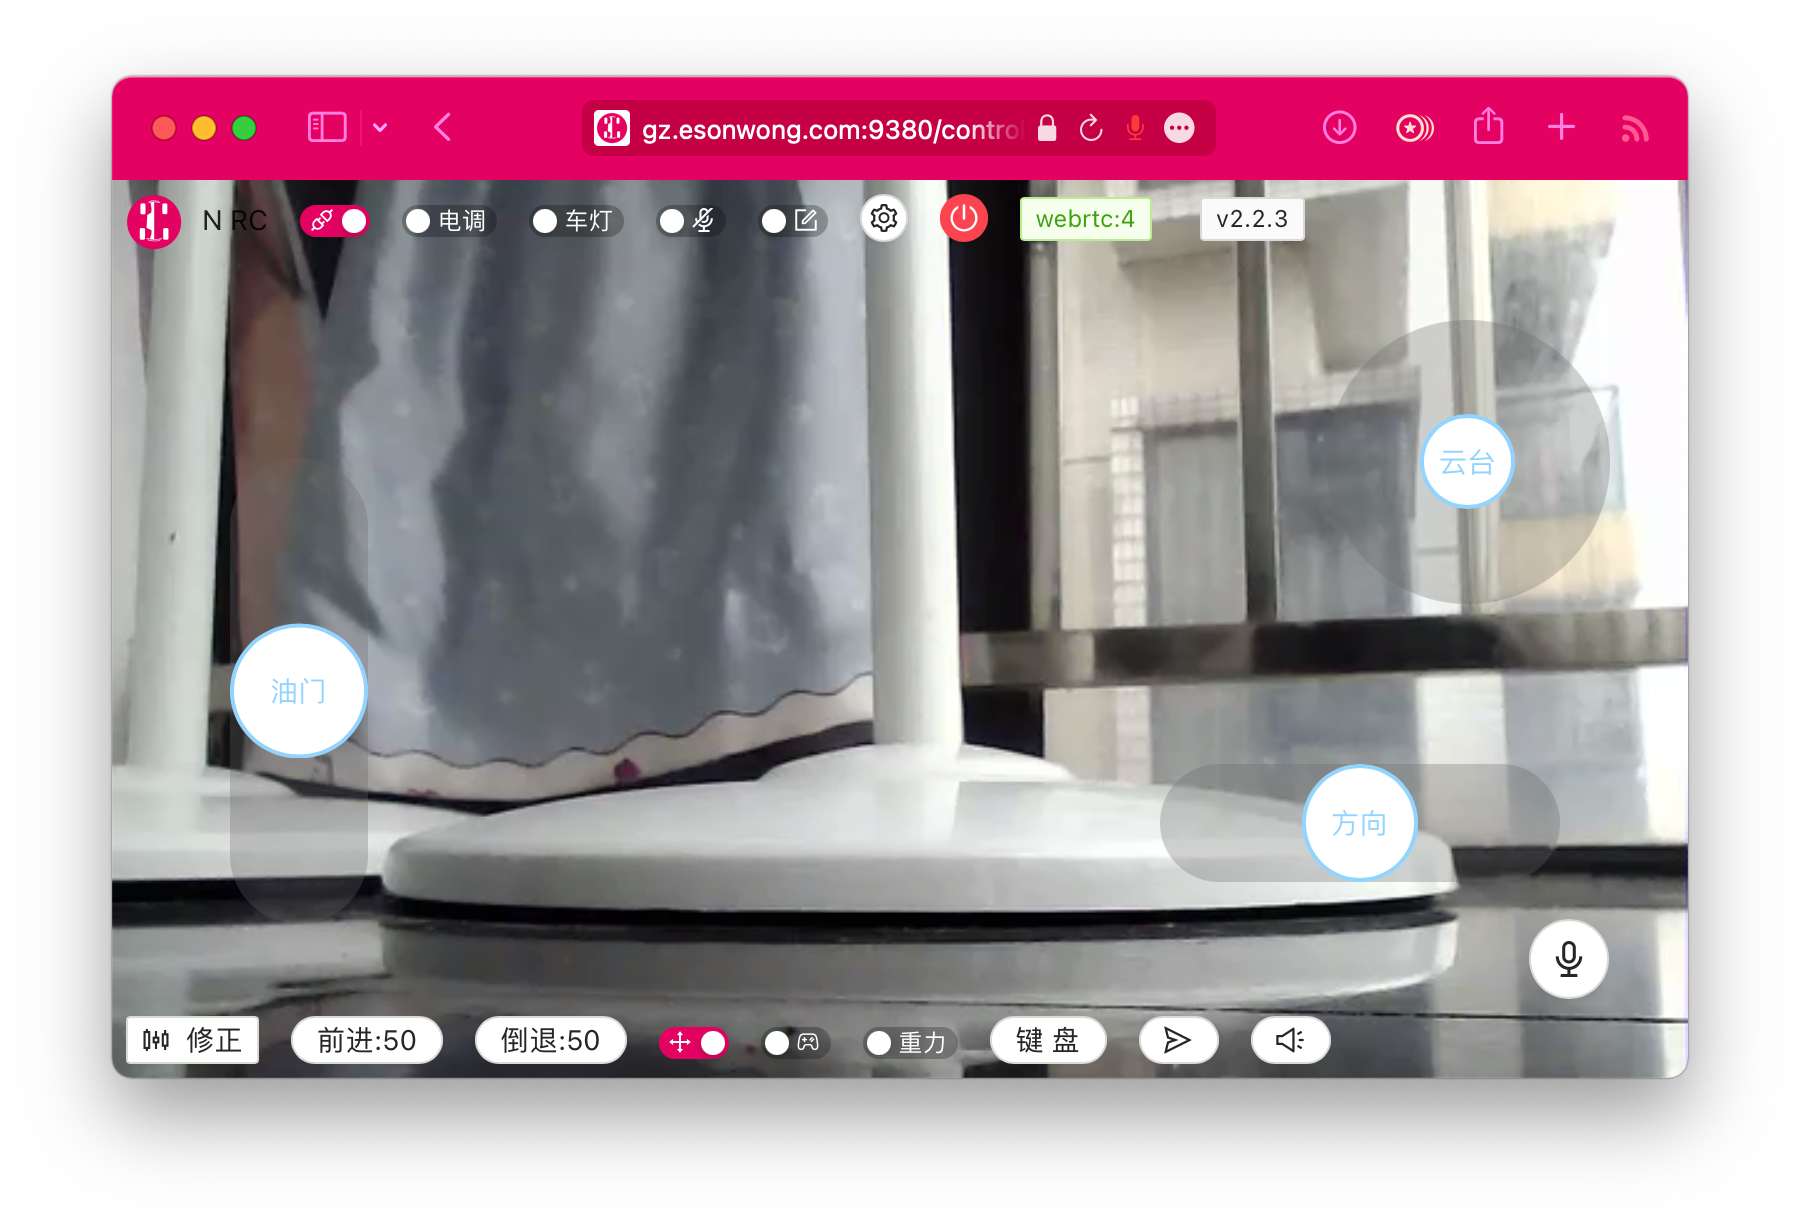
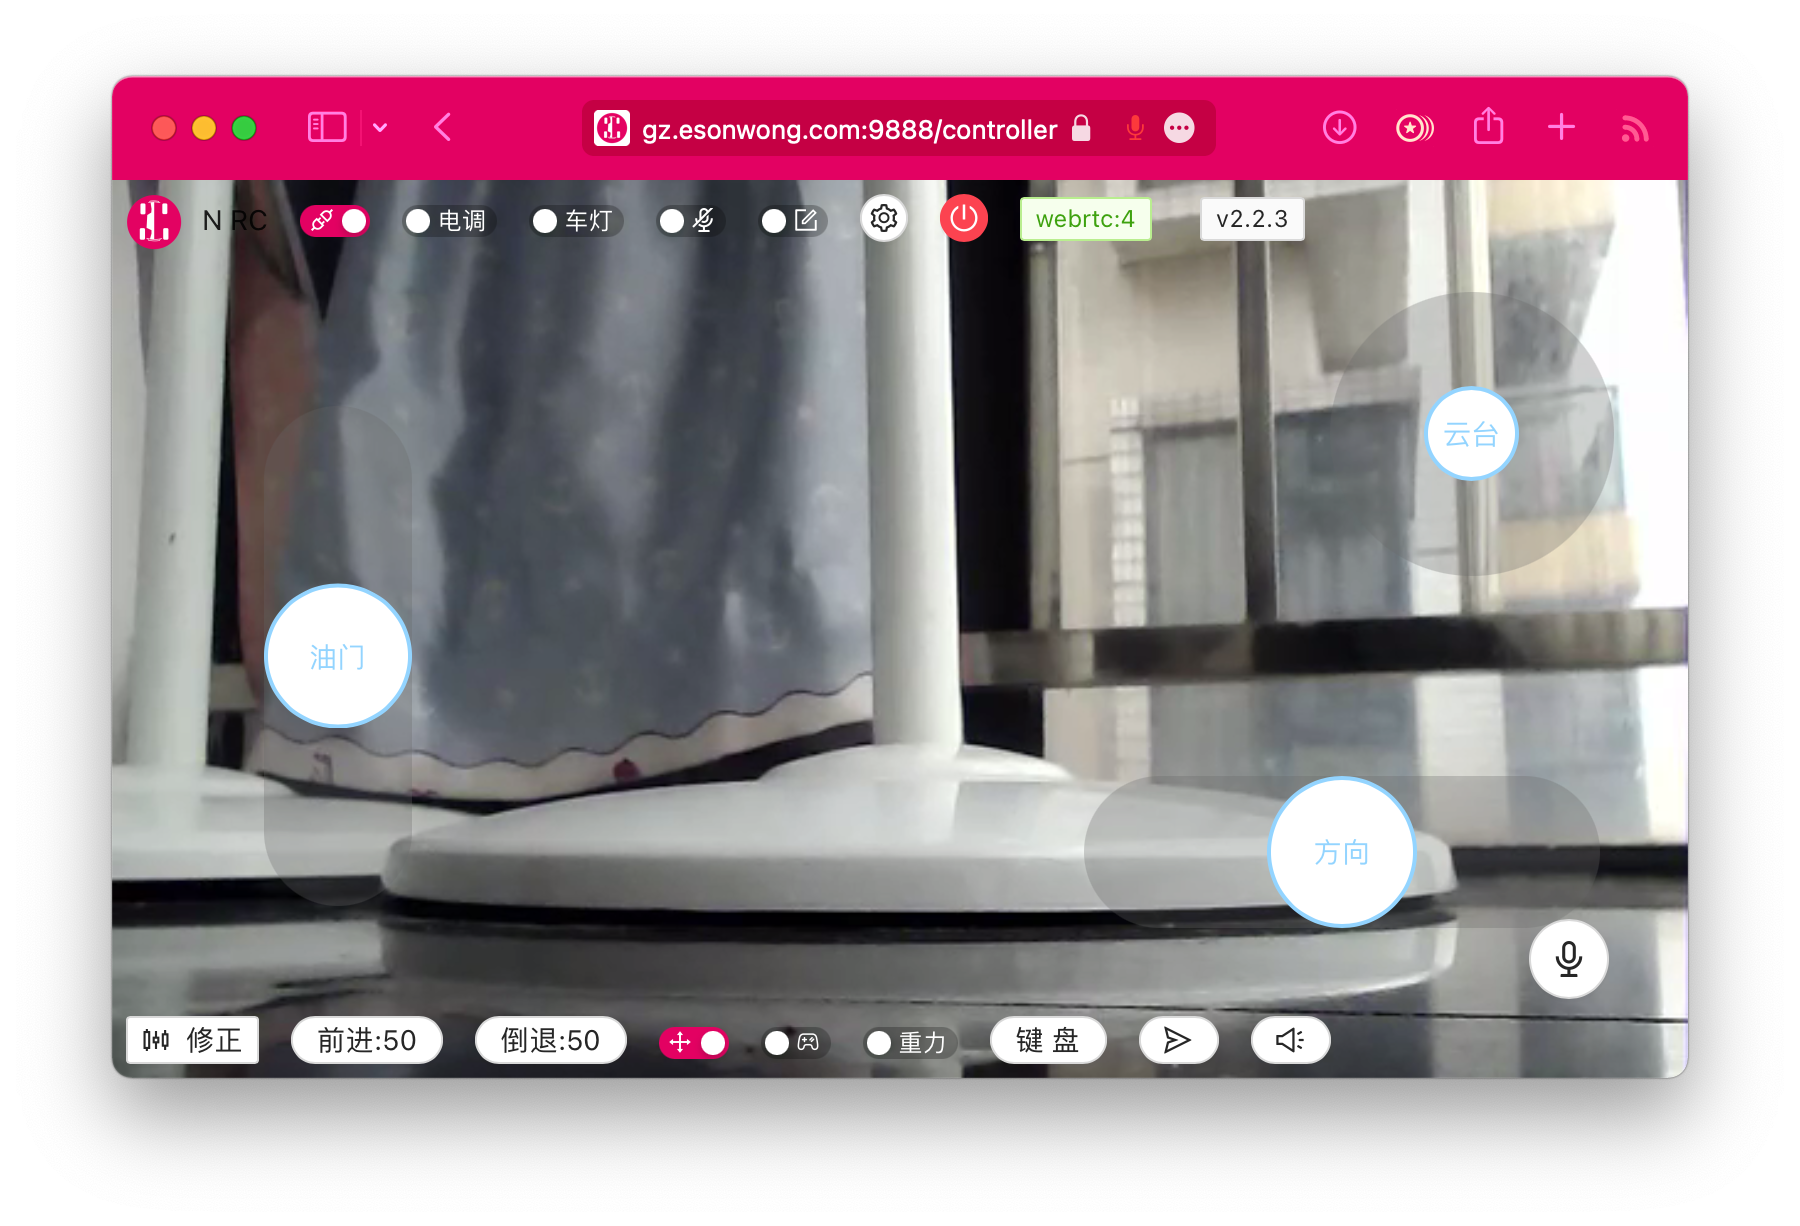
Update ui picture

diff --git a/README.md b/README.md
@@ -29,4 +29,4 @@ footer: MIT Licensed | Copyright © 2020-present Eson Wong
 ---
 
 
-![控制端](/ui-desktop.png)
+![控制端](./assets/ui-controller.png)
